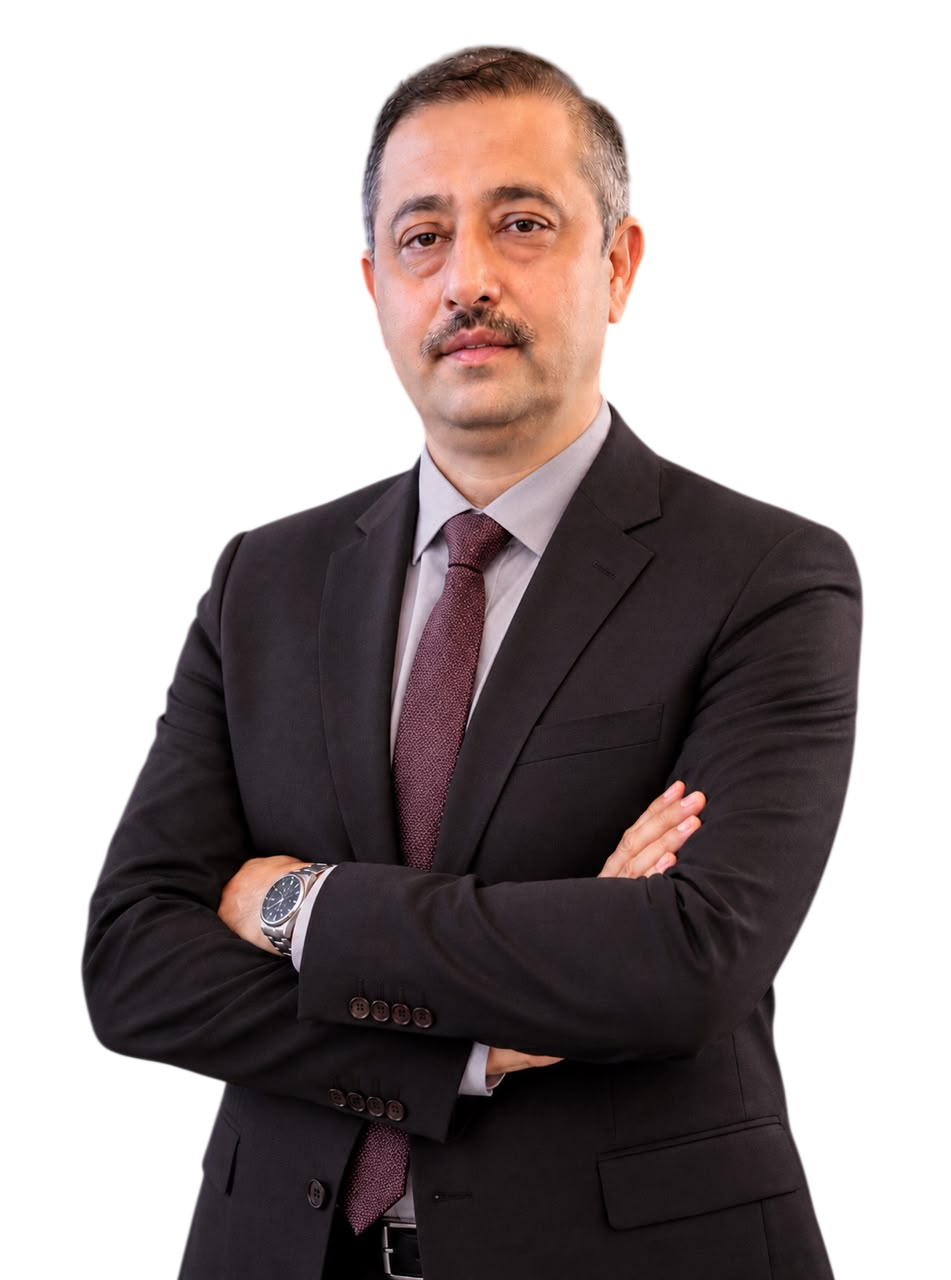
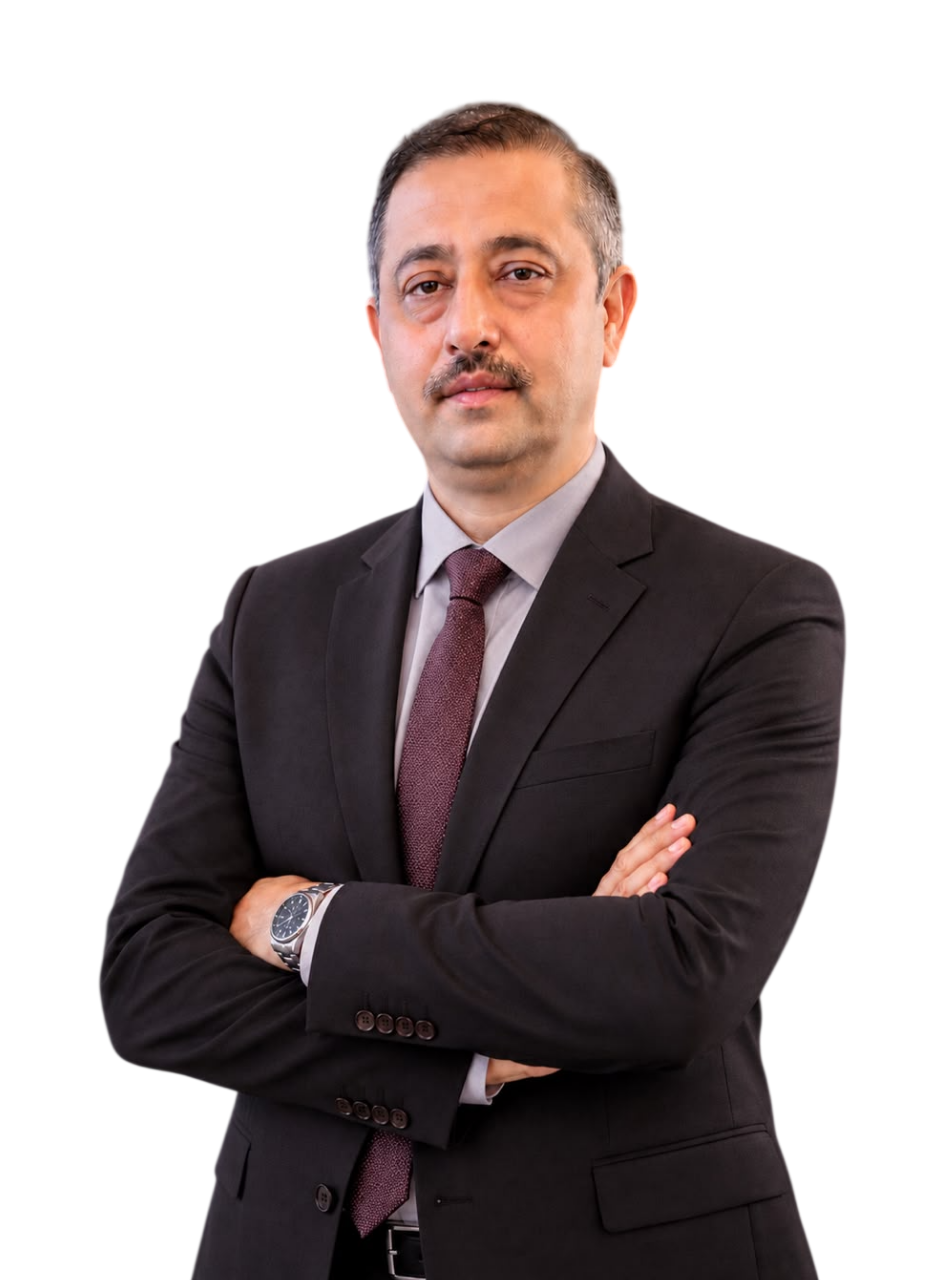
client changes 2

diff --git a/src/routes/faq.tsx b/src/routes/faq.tsx
@@ -16,38 +16,123 @@ export const Route = createFileRoute("/faq")({
   component: FAQPage,
 });
 
-const FAQS = [
+type Faq = {
+  q: string;
+  a: string;
+  bullets?: string[];
+  note?: string;
+};
+
+const FAQS: Faq[] = [
   {
-    q: "How long does a project take?",
-    a: "Single services typically finish within 5–7 business days. Full packages take 2–3 weeks across discovery, drafting and revisions. Executive engagements are scoped individually.",
+    q: "Why should I hire a professional résumé writer?",
+    a: "A professionally written résumé helps showcase your skills, experience, and achievements in a way that attracts recruiters, aligns with ATS requirements, and increases interview opportunities.",
+  },
+  {
+    q: "How is your service different from AI-generated résumés?",
+    a: "AI can generate content, but it cannot fully understand your career story or goals. Every résumé is professionally written, reviewed, and tailored to your unique background.",
   },
   {
     q: "Will my résumé pass ATS screening?",
-    a: "Yes. Every document is built on a clean, parser-friendly structure and tested against multiple ATS engines. We never use tables, columns or hidden text that break parsing.",
+    a: "Yes. Every résumé is optimized using ATS best practices, relevant keywords, and professional formatting to improve compatibility with applicant tracking systems.",
+  },
+  {
+    q: "Why am I not getting interviews despite applying to jobs?",
+    a: "Common reasons include ATS issues, missing keywords, weak positioning, or a résumé that doesn't clearly communicate your value. We help identify and fix these issues.",
   },
   {
     q: "Who actually writes my résumé?",
-    a: "A senior writer with hiring experience in your industry. The person on your discovery call is the same person drafting and revising your documents — no offshoring, no juniors.",
+    a: "Your résumé is written by an experienced professional résumé writer with expertise in ATS optimization, personal branding, and modern hiring practices.",
+  },
+  {
+    q: "Do you write résumés manually or use AI?",
+    a: "Every résumé is professionally written and reviewed by a real writer. We focus on creating customized documents that accurately reflect your experience and goals.",
+  },
+  {
+    q: "Can you tailor my résumé to a specific job posting?",
+    a: "Absolutely. We can align your résumé with a specific job description by highlighting the qualifications, experience, and keywords most relevant to the role.",
+  },
+  {
+    q: "What industries do you specialize in?",
+    a: "We work with professionals across a wide range of industries, including:",
+    bullets: [
+      "Information Technology (IT), Software & Cybersecurity",
+      "Healthcare & Medical",
+      "Engineering",
+      "Finance, Banking & Accounting",
+      "Sales & Business Development",
+      "Marketing & Communications",
+      "Human Resources",
+      "Education & Training",
+      "Legal & Compliance",
+      "Operations, Logistics & Supply Chain",
+      "Construction & Real Estate",
+      "Manufacturing",
+      "Energy & Utilities",
+      "Government & Public Sector",
+      "Nonprofit Organizations",
+      "Customer Service & Administration",
+      "Hospitality & Tourism",
+      "Retail & E-Commerce",
+      "Telecommunications",
+      "Media & Entertainment",
+      "Aviation & Aerospace",
+      "Executive & Leadership Roles",
+      "And many more",
+    ],
+    note: "Whether you're launching your career, pursuing a promotion, making a career transition, or targeting a leadership position, we can help position you competitively for your next opportunity.",
+  },
+  {
+    q: "Do you offer LinkedIn profile optimization?",
+    a: "Yes. We optimize LinkedIn profiles to strengthen your professional brand, improve recruiter visibility, and support your job search goals.",
+  },
+  {
+    q: "What does LinkedIn profile optimization include?",
+    a: "Services may include headline optimization, About section enhancement, experience updates, skills optimization, keyword strategy, recruiter search optimization, and personal branding improvements.",
+  },
+  {
+    q: "What does career coaching include?",
+    a: "Career coaching provides personalized guidance on career planning, job search strategy, networking, professional branding, and career advancement.",
+  },
+  {
+    q: "Can you help with interview preparation?",
+    a: "Yes. We provide interview coaching, mock interview practice, and strategies to help you communicate your value with confidence.",
+  },
+  {
+    q: "Can you help with career changes?",
+    a: "Absolutely. We help professionals identify transferable skills, reposition their experience, and successfully transition into new roles or industries.",
+  },
+  {
+    q: "Do you provide job search strategy guidance?",
+    a: "Yes. We provide guidance on networking, recruiter outreach, job search planning, and effective application strategies to help improve your results.",
+  },
+  {
+    q: "What information do you need to get started?",
+    a: "We typically need your current résumé (if available), target role, career goals, and any additional information you'd like highlighted.",
+  },
+  {
+    q: "What file formats will I receive?",
+    a: "You will receive your finalized documents in both Microsoft Word (.docx) and PDF formats for easy editing, sharing, and job applications.",
+  },
+  {
+    q: "How long does a project take?",
+    a: "Most projects are completed within 3–5 business days, depending on the service selected and project requirements.",
   },
   {
     q: "How do revisions work?",
-    a: "Each package includes a set number of full-pass revisions (2–4 depending on tier). We collect your feedback in writing or on a 30-minute review call and turn the next draft within 48 hours.",
+    a: "Revision rounds are included to ensure your documents accurately reflect your experience, achievements, and career goals before final delivery.",
   },
   {
     q: "Is everything confidential?",
-    a: "Always. We sign an NDA on request and never display client work in our portfolio without explicit written consent — especially important for executive searches.",
-  },
-  {
-    q: "Do you offer refunds?",
-    a: "If the first draft of your résumé doesn't meet the brief we agreed on in discovery, we'll either rework it at no cost or refund the project in full. We've issued exactly four refunds in six years.",
-  },
-  {
-    q: "Can you guarantee interviews or offers?",
-    a: "No serious career coach can — and anyone who does is selling you something. What we can guarantee is documents that move you further in the funnel and a strategy you can execute.",
+    a: "Yes. All client information, documents, and communications are handled with strict confidentiality and are never shared with third parties.",
   },
   {
     q: "Do you work with clients outside the United States?",
-    a: "Yes. Roughly a third of our clients are international. We localize tone, format and length to your target market — UK, EU, Middle East, APAC.",
+    a: "Yes. We work with professionals worldwide, including clients across the United States, Canada, the United Kingdom, Australia, Europe, and the Middle East.",
+  },
+  {
+    q: "Do you offer refunds?",
+    a: "Due to the personalized nature of our services, refunds are generally not available once work has begun. However, we are committed to addressing concerns and ensuring client satisfaction.",
   },
 ];
 
@@ -71,7 +156,7 @@ function FAQPage() {
                   onClick={() => setOpen(isOpen ? null : i)}
                   className="w-full text-left py-6 flex items-start gap-5"
                 >
-                  <span className="font-display text-sm text-gold mt-2 shrink-0">0{i + 1}</span>
+                  <span className="font-display text-sm text-gold mt-2 shrink-0">{String(i + 1).padStart(2, "0")}</span>
                   <span className="flex-1 font-display text-2xl sm:text-3xl leading-tight">{f.q}</span>
                   <Plus
                     className={[
@@ -85,7 +170,20 @@ function FAQPage() {
                   style={{ gridTemplateRows: isOpen ? "1fr" : "0fr" }}
                 >
                   <div className="overflow-hidden">
-                    <p className="pb-7 pl-12 pr-6 text-foreground/70 text-lg leading-relaxed">{f.a}</p>
+                    <div className="pb-7 pl-12 pr-6 text-foreground/70 text-lg leading-relaxed">
+                      <p>{f.a}</p>
+                      {f.bullets && (
+                        <ul className="mt-4 grid gap-x-8 gap-y-2 sm:grid-cols-2">
+                          {f.bullets.map((b) => (
+                            <li key={b} className="flex gap-2.5">
+                              <span className="mt-2.5 h-1.5 w-1.5 shrink-0 rounded-full bg-gold" />
+                              <span>{b}</span>
+                            </li>
+                          ))}
+                        </ul>
+                      )}
+                      {f.note && <p className="mt-4">{f.note}</p>}
+                    </div>
                   </div>
                 </div>
               </Reveal>

diff --git a/src/styles.css b/src/styles.css
@@ -105,22 +105,23 @@
   }
 
   /* Word reveal animation (premium, not the typical fade) */
+  /* No overflow clip — descenders / italic / gold overhang can never be cut.
+     The child rises a short distance with a fade + blur instead. */
   .reveal-mask {
     display: inline-block;
-    overflow: hidden;
     vertical-align: bottom;
     line-height: 1.05;
   }
   .reveal-mask > span {
     display: inline-block;
-    transform: translateY(110%);
+    transform: translateY(0.5em);
     opacity: 0;
+    filter: blur(6px);
     animation: word-rise 0.95s cubic-bezier(0.22, 1, 0.36, 1) forwards;
     animation-delay: var(--rd, 0ms);
   }
   @keyframes word-rise {
-    0% { transform: translateY(110%); opacity: 0; filter: blur(6px); }
-    60% { opacity: 1; filter: blur(0); }
+    0% { transform: translateY(0.5em); opacity: 0; filter: blur(6px); }
     100% { transform: translateY(0); opacity: 1; filter: blur(0); }
   }
 
@@ -219,6 +220,11 @@
     -webkit-background-clip: text;
     background-clip: text;
     color: transparent;
+    /* Extend the gradient paint box past the glyphs so the italic right-side
+       overhang still gets filled instead of clipping to transparent. Negative
+       margins keep the layout/spacing unchanged. */
+    padding-inline: 0.04em 0.14em;
+    margin-inline: -0.04em -0.14em;
     animation: gold-shimmer 5.5s ease-in-out infinite;
   }
   @keyframes gold-shimmer {
@@ -226,19 +232,27 @@
     100% { background-position: -120% center; }
   }
 
+  /* Same italic-overhang fix for Tailwind background-clip:text gold words
+     (e.g. the services hero headline). */
+  .bg-clip-text {
+    padding-inline: 0.04em 0.14em;
+    margin-inline: -0.04em -0.14em;
+  }
+
   /* Headline words: clip-path wipe + rise (writes itself in) */
+  /* Crop-proof reveal: NO clip-path / overflow, so descenders and italic/gold
+     overhang can never be cut. Pure fade + rise + blur reads just as premium. */
   .word-wipe {
     display: inline-block;
     opacity: 0;
-    transform: translateY(28%);
-    clip-path: inset(0 100% 0 0);
-    animation: word-wipe 0.9s cubic-bezier(0.22, 1, 0.36, 1) forwards;
+    transform: translateY(0.4em);
+    filter: blur(8px);
+    animation: word-wipe 0.85s cubic-bezier(0.22, 1, 0.36, 1) forwards;
     animation-delay: var(--rd, 0ms);
   }
   @keyframes word-wipe {
-    0% { opacity: 0; transform: translateY(28%); clip-path: inset(0 100% 0 0); filter: blur(5px); }
-    60% { opacity: 1; filter: blur(0); }
-    100% { opacity: 1; transform: translateY(0); clip-path: inset(0 0% 0 0); filter: blur(0); }
+    0%   { opacity: 0; transform: translateY(0.4em); filter: blur(8px); }
+    100% { opacity: 1; transform: translateY(0);     filter: blur(0); }
   }
 
   /* Per-letter "write up" reveal (eyebrow / fine text) */

diff --git a/src/components/home/Hero.tsx b/src/components/home/Hero.tsx
@@ -4,6 +4,7 @@ import h1 from "@/assets/hero-1.png";
 import h2 from "@/assets/hero-2.png";
 import h3 from "@/assets/hero-3.png";
 import h4 from "@/assets/hero-4.png";
+import h5 from "@/assets/hero-5.png";
 import { ArrowUpRight } from "lucide-react";
 
 type Word = { t: string; gold?: boolean; italic?: boolean; br?: boolean };
@@ -63,6 +64,18 @@ const SLIDES: Slide[] = [
     ],
     caption: "Pivot industries and step up — without losing momentum.",
   },
+  {
+    img: h5,
+    eyebrow: "Job Search Strategy",
+    title: [
+      { t: "Get" },
+      { t: "hired", gold: true, italic: true, br: true },
+      { t: "faster with a", br: true },
+      { t: "smarter", italic: true },
+      { t: "plan", gold: true },
+    ],
+    caption: "A targeted strategy that opens doors and shortens your search.",
+  },
 ];
 
 const DURATION = 7000;
@@ -85,16 +98,6 @@ export function Hero() {
         <div className="animate-aurora absolute -top-32 right-0 h-[42rem] w-[42rem] rounded-full bg-gold/15 blur-3xl" />
         <div className="animate-aurora absolute -bottom-40 -left-32 h-[38rem] w-[38rem] rounded-full bg-navy/10 blur-3xl [animation-delay:-6s]" />
       </div>
-
-      {/* Dot grid, top-left — desktop only (keeps mobile clean) */}
-      <svg className="pointer-events-none absolute left-6 top-8 hidden h-28 w-44 text-navy/30 lg:block" aria-hidden>
-        <defs>
-          <pattern id="dots" width="14" height="14" patternUnits="userSpaceOnUse">
-            <circle cx="2" cy="2" r="1.6" fill="currentColor" />
-          </pattern>
-        </defs>
-        <rect width="100%" height="100%" fill="url(#dots)" />
-      </svg>
 
       {/* Flowing lines, bottom-left — desktop only */}
       <svg className="pointer-events-none absolute bottom-0 left-0 hidden h-64 w-[36rem] text-gold/25 lg:block" viewBox="0 0 600 260" fill="none" aria-hidden>

diff --git a/src/routes/services.tsx b/src/routes/services.tsx
@@ -50,8 +50,8 @@ function ServicesPage() {
     <>
       <PageHero
         eyebrow="Professional Career Services"
-        title={[{ t: "Every chapter of your", italic: true }, { t: "career,", gold: true }, { t: "written by hand." }]}
-        sub="Single services or full packages. Each one delivered by a senior coach who has hired into your industry — strategy first, never a template."
+        title={[{ t: "Every chapter of your", italic: true }, { t: "career,", gold: true }, { t: "written by experts who understand your industry."}]}
+        sub="From ATS-optimized resumes to LinkedIn profiles and career coaching, every service is delivered with a personalized approach by experienced career specialists—not junior writers using generic templates. Because your career deserves strategy, expertise, and results"
       />
 
       {/* Quick-nav across all services */}

diff --git a/src/routes/index.tsx b/src/routes/index.tsx
@@ -90,7 +90,7 @@ const TESTIMONIALS = [
   },
 ];
 
-const INDUSTRIES = ["Technology", "Healthcare", "Finance", "Engineering", "Consulting", "Marketing", "Operations", "Sales", "Education", "Legal", "Pharma", "Data & Analytics"];
+const INDUSTRIES = ["Technology", "Healthcare", "Finance", "Engineering", "Education", "Legal", "Marketing", "Sales", "Human Resources", "Operations", "Construction", "Manufacturing", "Retail", "Hospitality", "Energy", "Transportation", "Government", "Nonprofit", "Agriculture", "Pharmaceuticals"];
 
 function Home() {
   return (